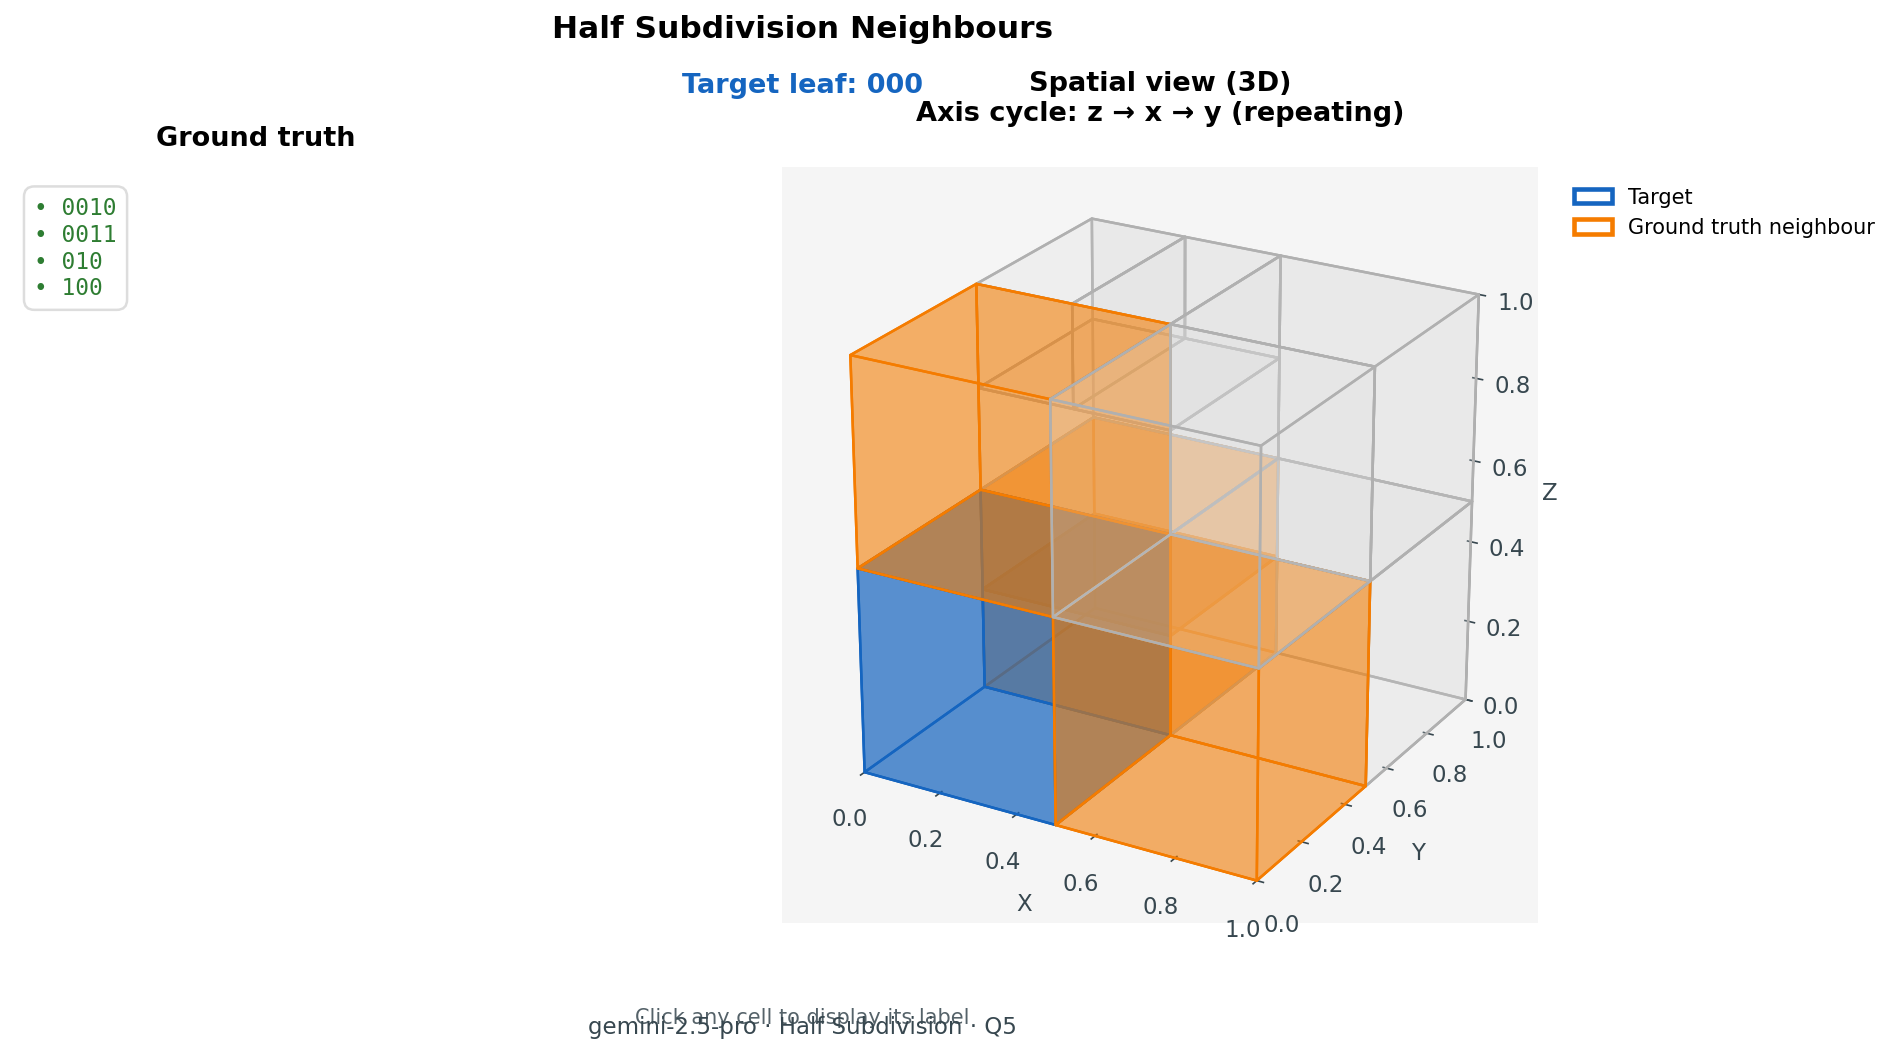
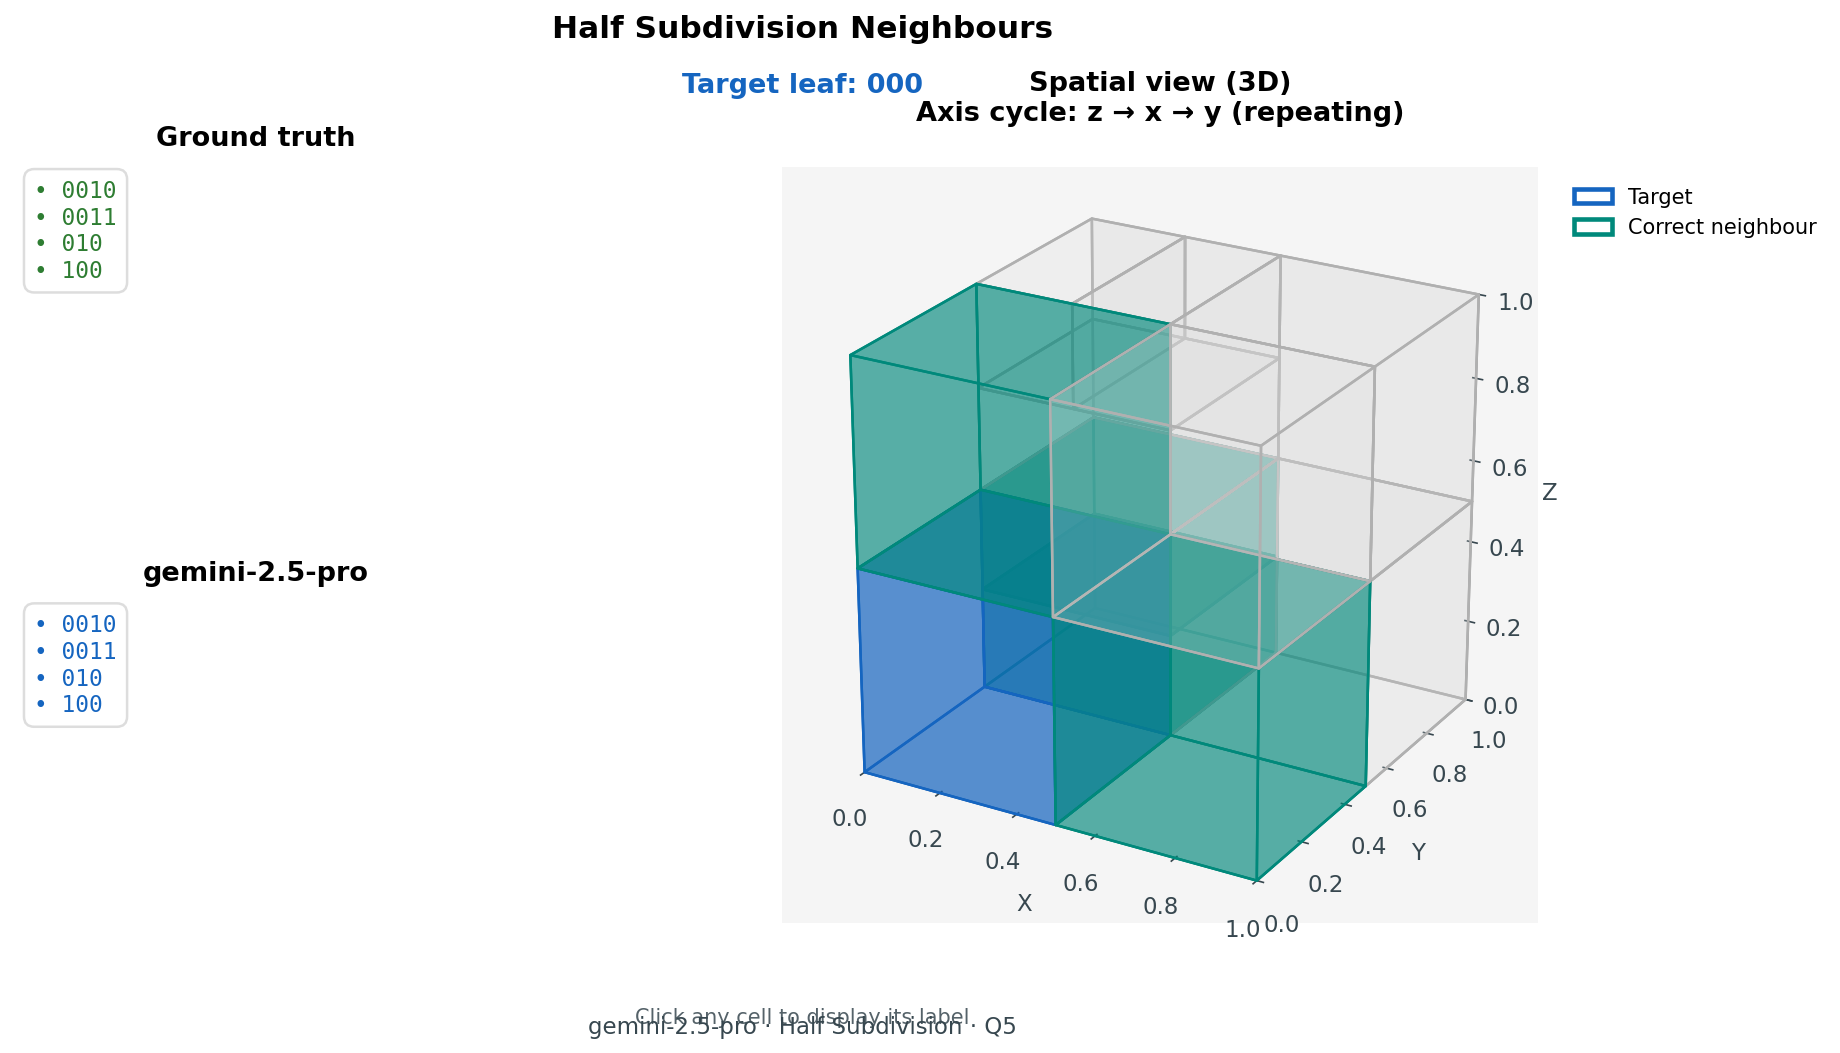
Use consistent neighbour colours on perfect runs

diff --git a/visualisations/half_subdivision.py b/visualisations/half_subdivision.py
@@ -479,7 +479,8 @@ def _render_half_subdivision(
     model_answer_labels: list[str] = parsed_answer if isinstance(parsed_answer, list) else []
     has_answer = bool(model_answer_labels)
 
-    highlight_labels: list[str] = list(ground_truth_labels)
+    highlight_labels_text: list[str] = list(ground_truth_labels)
+    highlight_labels_draw: list[str] = [] if has_answer else list(ground_truth_labels)
 
     gt_set = {label for label in ground_truth_labels if isinstance(label, str)}
     answer_set = {label for label in model_answer_labels if isinstance(label, str)}
@@ -487,12 +488,12 @@ def _render_half_subdivision(
     missed_labels = sorted(gt_set - answer_set) if has_answer else []
     extra_labels = sorted(answer_set - gt_set) if has_answer else []
     has_errors = bool(missed_labels or extra_labels)
-    model_labels_for_render = model_answer_labels if has_errors else []
-    correct_for_render = correct_labels if has_errors else []
-    missed_for_render = missed_labels if has_errors else []
-    extra_for_render = extra_labels if has_errors else []
+    show_model_answer = detail and has_answer
 
-    show_model_answer = detail and has_answer and has_errors
+    model_labels_for_render = model_answer_labels if has_answer else []
+    correct_for_render = correct_labels if has_answer else []
+    missed_for_render = missed_labels if has_answer else []
+    extra_for_render = extra_labels if has_answer else []
     text_rows = 2 if show_model_answer else 1
     gs = fig.add_gridspec(text_rows, 2, width_ratios=[1, 2], hspace=0.35, wspace=0.25)
 
@@ -501,7 +502,7 @@ def _render_half_subdivision(
     _render_text_block(
         ax_gt,
         title="Ground truth",
-        lines=_format_label_lines(ground_truth_labels),
+        lines=_format_label_lines(highlight_labels_text),
         empty_message="(none)",
         colour=COLOURS["truth"],
     )
@@ -524,7 +525,7 @@ def _render_half_subdivision(
                 ax_spatial,
                 leaves,
                 target_label=target_label,
-                ground_truth_labels=highlight_labels,
+                ground_truth_labels=highlight_labels_draw,
                 model_answer_labels=model_labels_for_render,
                 correct_labels=correct_for_render,
                 missed_labels=missed_for_render,
@@ -535,7 +536,7 @@ def _render_half_subdivision(
         ax_spatial.view_init(elev=24, azim=-60)
         _add_highlight_legend(
             ax_spatial,
-            has_ground_truth=bool(highlight_labels),
+            has_ground_truth=bool(highlight_labels_draw),
             has_model_answer=bool(model_labels_for_render),
             has_correct=bool(correct_for_render),
             has_missed=bool(missed_for_render),
@@ -561,7 +562,7 @@ def _render_half_subdivision(
                 ax_spatial,
                 leaves,
                 target_label=target_label,
-                ground_truth_labels=highlight_labels,
+                ground_truth_labels=highlight_labels_draw,
                 model_answer_labels=model_labels_for_render,
                 correct_labels=correct_for_render,
                 missed_labels=missed_for_render,
@@ -570,7 +571,7 @@ def _render_half_subdivision(
         )
         _add_highlight_legend(
             ax_spatial,
-            has_ground_truth=bool(highlight_labels),
+            has_ground_truth=bool(highlight_labels_draw),
             has_model_answer=bool(model_labels_for_render),
             has_correct=bool(correct_for_render),
             has_missed=bool(missed_for_render),
